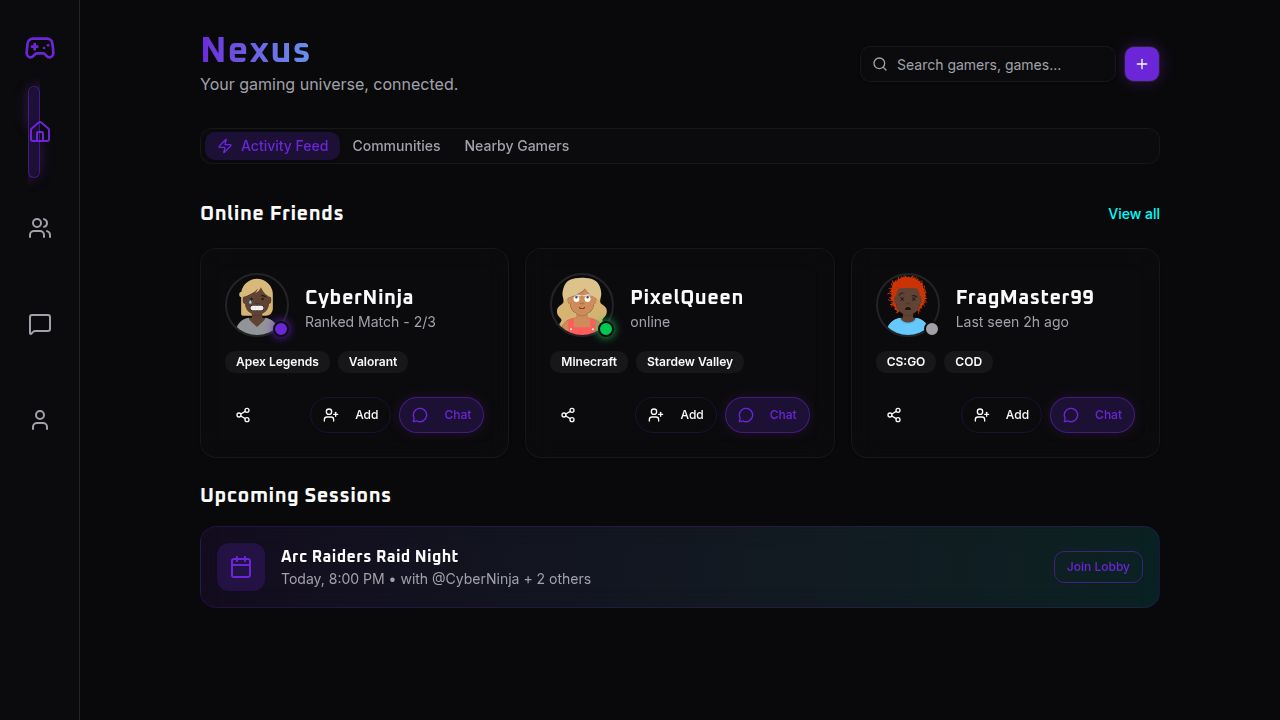
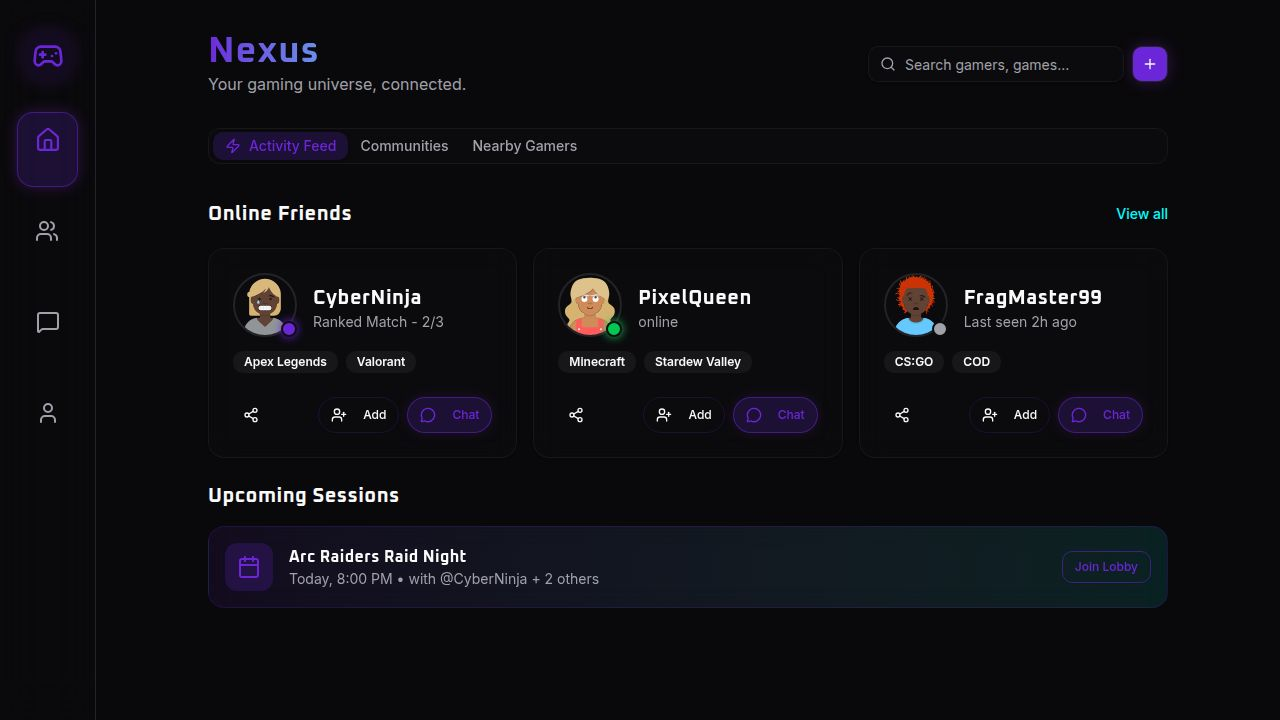
Update navigation to a floating dock and remove scrollbars
Enhances the UI by implementing a floating dock for mobile navigation and removing scrollbars from various components using CSS utility classes.

Replit-Commit-Author: Agent
Replit-Commit-Session-Id: d4995a27-6640-4c41-a3a9-7b3ffc02916a
Replit-Commit-Checkpoint-Type: full_checkpoint
Replit-Commit-Event-Id: d7ce502f-0e75-479d-8ec4-aeb2a6e405f1
Replit-Commit-Screenshot-Url: https://storage.googleapis.com/screenshot-production-us-central1/17a58c44-41e3-418e-957b-7ed34030a901/d4995a27-6640-4c41-a3a9-7b3ffc02916a/1iI0u10
Replit-Helium-Checkpoint-Created: true

diff --git a/client/src/components/layout.tsx b/client/src/components/layout.tsx
@@ -13,24 +13,26 @@ export default function Layout({ children }: { children: React.ReactNode }) {
   ];
 
   return (
-    <div className="min-h-screen flex flex-col bg-background text-foreground font-sans selection:bg-primary selection:text-primary-foreground pb-20 md:pb-0 md:pl-20">
+    <div className="min-h-screen flex flex-col bg-background text-foreground font-sans selection:bg-primary selection:text-primary-foreground pb-24 md:pb-0 md:pl-24">
       {/* Desktop Sidebar */}
-      <aside className="hidden md:flex flex-col fixed left-0 top-0 bottom-0 w-20 border-r border-border bg-card/50 backdrop-blur-xl z-50 items-center py-8 gap-8">
-        <div className="text-primary">
+      <aside className="hidden md:flex flex-col fixed left-0 top-0 bottom-0 w-24 border-r border-border bg-card/30 backdrop-blur-xl z-50 items-center py-8 gap-8 transition-all hover:bg-card/50">
+        <div className="text-primary p-2 bg-primary/10 rounded-xl shadow-[0_0_20px_rgba(139,47,201,0.2)]">
           <Gamepad2 className="w-8 h-8" />
         </div>
-        <nav className="flex flex-col gap-6 w-full items-center">
+        <nav className="flex flex-col gap-4 w-full items-center">
           {navItems.map((item) => (
             <Link key={item.href} href={item.href} className={cn(
-              "p-3 rounded-xl transition-all duration-300 hover:bg-primary/10 hover:text-primary group relative",
+              "p-4 rounded-2xl transition-all duration-300 hover:bg-primary/10 hover:text-primary group relative flex flex-col items-center gap-1",
               location === item.href
                 ? "bg-primary/20 text-primary shadow-[0_0_15px_rgba(139,47,201,0.3)]"
                 : "text-muted-foreground"
             )}>
-              <item.icon className="w-6 h-6" />
-              <span className="sr-only">{item.label}</span>
+              <item.icon className={cn("w-6 h-6 transition-transform", location === item.href && "scale-110")} />
+              <span className="text-[10px] font-medium opacity-0 group-hover:opacity-100 transition-opacity absolute -bottom-1 translate-y-full bg-card px-2 py-1 rounded-md border border-border shadow-lg z-50 pointer-events-none whitespace-nowrap md:hidden xl:block xl:static xl:translate-y-0 xl:bg-transparent xl:border-none xl:shadow-none xl:p-0">
+                {item.label}
+              </span>
               {location === item.href && (
-                <div className="absolute inset-0 rounded-xl ring-1 ring-inset ring-primary/50" />
+                <div className="absolute inset-0 rounded-2xl ring-1 ring-inset ring-primary/50" />
               )}
             </Link>
           ))}
@@ -42,18 +44,30 @@ export default function Layout({ children }: { children: React.ReactNode }) {
         {children}
       </main>
 
-      {/* Mobile Bottom Nav */}
-      <nav className="md:hidden fixed bottom-0 left-0 right-0 h-16 bg-card/80 backdrop-blur-xl border-t border-border flex items-center justify-around z-50 px-2 safe-area-pb">
-        {navItems.map((item) => (
-          <Link key={item.href} href={item.href} className={cn(
-            "flex flex-col items-center justify-center w-full h-full gap-1 transition-colors",
-            location === item.href ? "text-primary" : "text-muted-foreground hover:text-foreground"
-          )}>
-            <item.icon className={cn("w-6 h-6 transition-transform", location === item.href && "scale-110")} />
-            <span className="text-[10px] font-medium">{item.label}</span>
-          </Link>
-        ))}
-      </nav>
+      {/* Mobile Bottom Nav - Floating Dock Style */}
+      <div className="md:hidden fixed bottom-6 left-1/2 -translate-x-1/2 z-50 w-[90%] max-w-sm">
+        <nav className="bg-card/80 backdrop-blur-xl border border-white/10 rounded-full shadow-[0_10px_40px_-10px_rgba(0,0,0,0.5)] flex items-center justify-between px-6 py-4 safe-area-pb">
+          {navItems.map((item) => (
+            <Link key={item.href} href={item.href} className="relative group">
+              <a
+                className={cn(
+                  "flex flex-col items-center justify-center transition-all duration-300",
+                  location === item.href ? "text-primary -translate-y-1" : "text-muted-foreground hover:text-foreground"
+                )}
+              >
+                <div className={cn(
+                  "absolute -inset-4 bg-primary/20 rounded-full blur-xl opacity-0 transition-opacity",
+                  location === item.href && "opacity-50"
+                )} />
+                <item.icon className={cn("w-6 h-6 relative z-10 transition-transform", location === item.href && "scale-110")} />
+                {location === item.href && (
+                  <span className="absolute -bottom-3 w-1 h-1 bg-primary rounded-full" />
+                )}
+              </a>
+            </Link>
+          ))}
+        </nav>
+      </div>
     </div>
   );
 }

diff --git a/client/src/pages/home.tsx b/client/src/pages/home.tsx
@@ -34,14 +34,14 @@ export default function Home() {
       </header>
 
       <Tabs defaultValue="feed" className="space-y-6" onValueChange={setActiveTab}>
-        <TabsList className="bg-card/50 backdrop-blur p-1 border border-border/50 w-full justify-start overflow-x-auto">
-          <TabsTrigger value="feed" className="data-[state=active]:bg-primary/20 data-[state=active]:text-primary">
+        <TabsList className="bg-card/50 backdrop-blur p-1 border border-border/50 w-full justify-start overflow-x-auto no-scrollbar">
+          <TabsTrigger value="feed" className="data-[state=active]:bg-primary/20 data-[state=active]:text-primary shrink-0">
             <Zap className="w-4 h-4 mr-2" /> Activity Feed
           </TabsTrigger>
-          <TabsTrigger value="communities" className="data-[state=active]:bg-accent/20 data-[state=active]:text-accent">
+          <TabsTrigger value="communities" className="data-[state=active]:bg-accent/20 data-[state=active]:text-accent shrink-0">
             Communities
           </TabsTrigger>
-          <TabsTrigger value="nearby" className="data-[state=active]:bg-green-500/20 data-[state=active]:text-green-500">
+          <TabsTrigger value="nearby" className="data-[state=active]:bg-green-500/20 data-[state=active]:text-green-500 shrink-0">
             Nearby Gamers
           </TabsTrigger>
         </TabsList>

diff --git a/client/src/pages/discover.tsx b/client/src/pages/discover.tsx
@@ -17,12 +17,12 @@ export default function Discover() {
         </div>
 
         {/* Categories */}
-        <div className="flex gap-2 overflow-x-auto pb-2">
+        <div className="flex gap-2 overflow-x-auto pb-2 no-scrollbar">
           {["All", "FPS", "RPG", "MMO", "Strategy", "Co-op", "VR"].map((cat) => (
             <Badge 
               key={cat} 
               variant="outline" 
-              className="px-4 py-2 rounded-full text-sm cursor-pointer hover:bg-primary/20 hover:text-primary hover:border-primary/50 transition-all"
+              className="px-4 py-2 rounded-full text-sm cursor-pointer hover:bg-primary/20 hover:text-primary hover:border-primary/50 transition-all shrink-0"
             >
               {cat}
             </Badge>

diff --git a/client/src/index.css b/client/src/index.css
@@ -85,9 +85,20 @@
   }
 }
 
+@layer utilities {
+  .no-scrollbar::-webkit-scrollbar {
+    display: none;
+  }
+  .no-scrollbar {
+    -ms-overflow-style: none;
+    scrollbar-width: none;
+  }
+}
+
 /* Custom Scrollbar */
 ::-webkit-scrollbar {
   width: 8px;
+  height: 8px;
 }
 ::-webkit-scrollbar-track {
   background: transparent;
